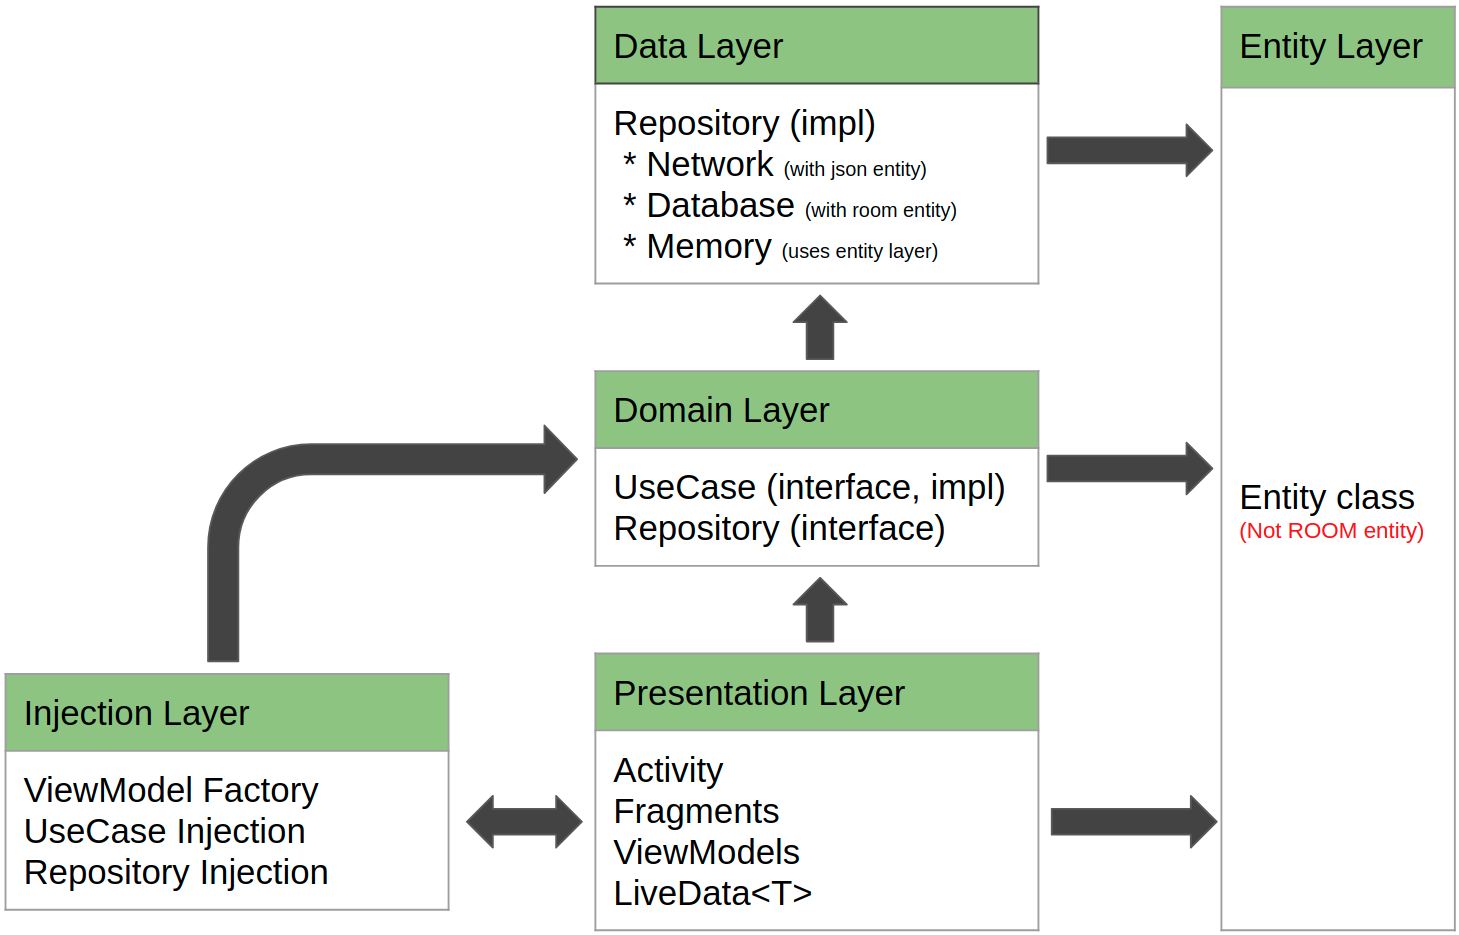
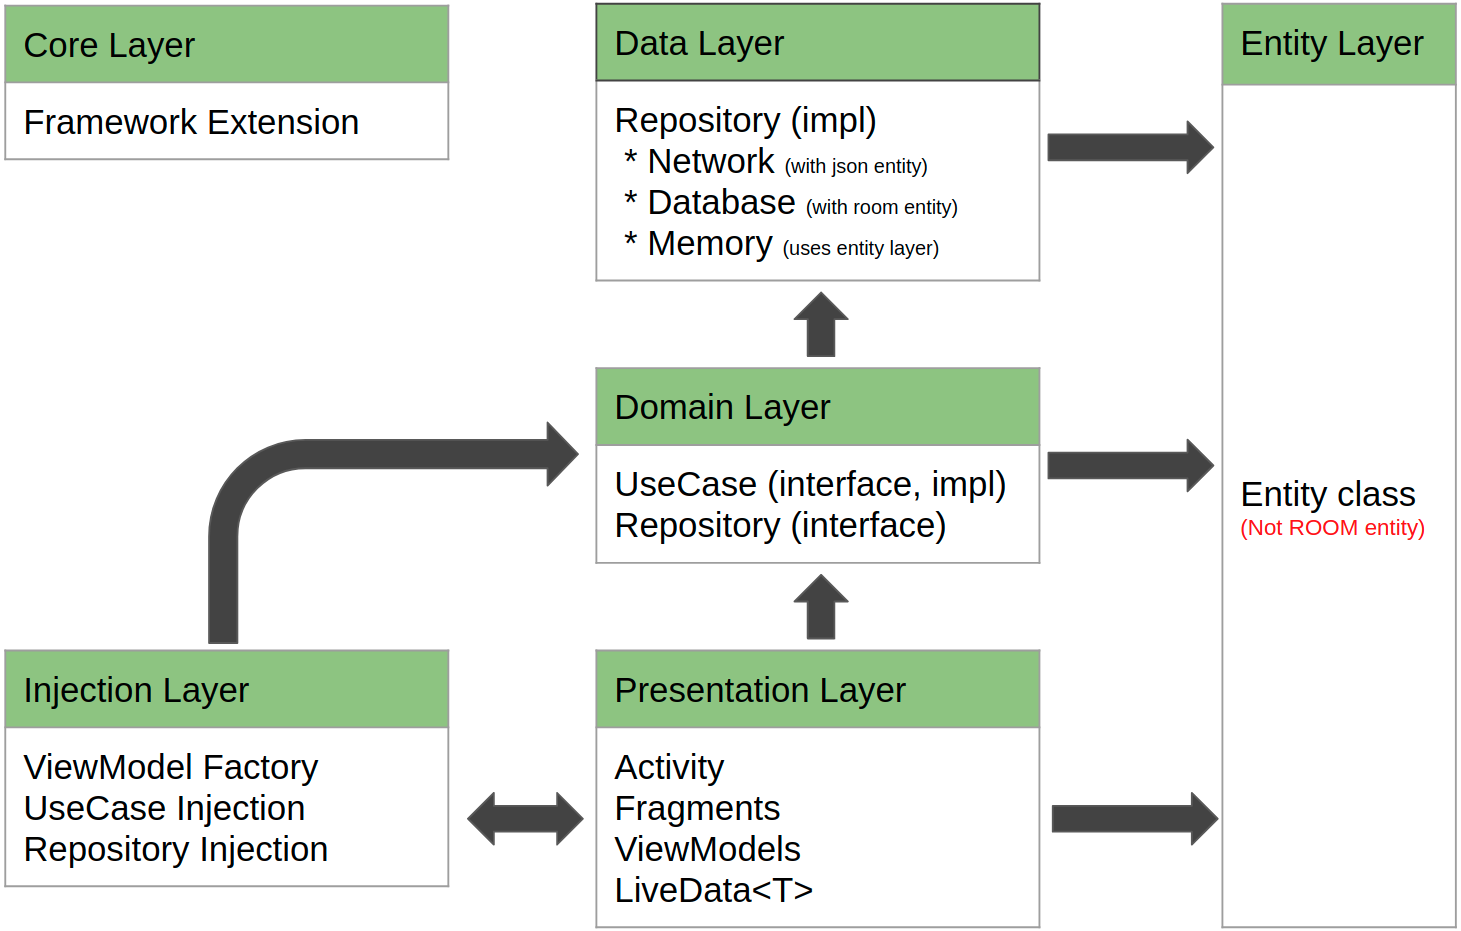
Updated README.md

diff --git a/README.md b/README.md
@@ -10,6 +10,14 @@
 - [Android-CleanArchitecture-Kotlin] (https://github.com/android10/Android-CleanArchitecture-Kotlin)
 - [architecture-samples] (https://github.com/android/architecture-samples)
 
+#### 샘플앱 기능
+- Google 계정을 통한 Firebase 로그인
+- Youtube 영상 URL 입력을 통해 영상 정보를 가져옴 
+- youtube 영상 정보를 Local DB에 저장
+- 영상 카테고리를 생성 및 수정
+- 유튜브 영상을 플레이
+- PIP (Picture-In-Picture)
+
 
 ## 라이브러리
 ###### Firebase
@@ -53,3 +61,131 @@ git clone https://github.com/allsoft777/Android-Youtube-Bookmark
 ## 패키지 레이어
 ![https://github.com/allsoft777/Android-Youtube-Bookmark/](https://github.com/allsoft777/Android-Youtube-Bookmark/blob/master/materials/package_layer.png)
 
+
+### 레이어 설명
+
+#### Presentation Layer
+ViewModel, View 관련 클래스들이 모여있는 패키지입니다.
+Activity, Fragment, View Widget 등이 위치하고, sub package는 기능별로 분류하게 됩니다.
+Data 레이어와 직접적인 의존관계를 없애기 위하여 contract interface, usecase가 포함된 Domain 레이어에 의존하고 있습니다.
+또한, ViewModel 을 생성하는 factory 클래스가 위치한 Injection package 또한 의존하고 있고, Entity class가 포함된 패키지에 의존하고 있습니다.
+
+##### ViewModel 에서의 async 작업
+Async 작업중 ViewModel을 사용하는 context가 종료하면 더이상 async 작업을 수행할 필요가 없습니다. 리소스가 낭비되기 때문인데요.
+viewModel에서는 이러한 기능을 아주 적은양의 코드로 실행 할 수 있도록 제공해주고 있습니다.
+```
+private var _entity: MutableLiveData<BookMarkEntireVO> = MutableLiveData()
+var entity: LiveData<BookMarkEntireVO> = _entity
+
+private val _dataLoading: MutableLiveData<Boolean> = MutableLiveData()
+val dataLoading: LiveData<Boolean> = _dataLoading
+
+fun loadData(intent: Intent) {
+    _dataLoading.value = true
+    viewModelScope.launch {
+        val dbId = intent.getIntExtra(PresentationConstants.KEY_DB_ID, -1)
+        val data = bookmarkRepository.fetchBookMarkEntireType(dbId)
+        _entity.value = data
+        _dataLoading.value = false
+    }
+}
+```
+loadData를 보면 viewModelScope.launch 를 통하여 내부적으로 heavy logic을 수행합니다.
+이 scope 자체는 main thread에서 동작하기 때문에, repository 내부적으로 async하게 동작하게끔 기능을 구현해야 합니다.
+_dataLoading은 progressbar view를 보여주기 위하여 사용하는 live data이고, _entity는 repository로부터 전달받은 결과를 저장하는 live data입니다.
+
+ 
+#### Domain Layer
+presentation 레이어에 repository interface 또는 UseCase를 제공하여 CRUD를 할 수 있도록 합니다.
+둘 중에 한개로 통일해서 사용해도 되지만, 두가지 사용 방법을 보여주기 위하여 둘다 구현한 샘플입니다.
+Coroutine을 사용하여 async 작업을 하였고, RxJava로 대체하여 사용해도 됩니다.
+
+##### Entity 클래스의 변환 작업
+Room Db의 경우 entity annotation을 사용한 entity 클래스가 있지만 이를 presentation 레이어에서 바로 사용하지 않고 caller에서 필요한 최소 정보로만 변환하여 넘겨줍니다.
+프로젝트가 커질수록 화면이 늘어나고, caller의 성격에 따라서 db entity 전체를 요구할수도 있지만 일부 몇몇 field만 요구하는 경우도 있습니다.
+만약 room db의 entity 클래스를 그대로 presentation 레이어에서 사용한다면 모든 필드에 접근이 가능하기 때문에 필요한 최소한의 필드만 볼 수 있도록 제한시켜야 하는 경우가 발생할 수 있습니다.
+이 때에는 domain 레이어에서 적절히 mapping하여 반환하도록 구현하도록 합니다. 
+
+```
+override suspend fun fetchBookMarksSimpleType(categoryId: Int): List<BookMarkSimpleVO> =
+    withContext(ioDispatcher) {
+        dao.fetchBookmarks(categoryId).map { it.toSimpleVO() }
+    }
+
+override suspend fun fetchBookMarkEntireType(categoryId: Int): BookMarkEntireVO =
+    withContext(ioDispatcher) {
+        dao.fetchBookmark(categoryId).toEntireVO()
+    }
+```
+
+```
+@Parcelize
+@Entity(tableName = "bookmark")
+data class BookMarkEntity(
+   // .....
+)
+   fun toEntireVO(): BookMarkEntireVO {
+       return BookMarkEntireVO(
+           categoryId,
+           videoId,
+           thumbnailUrl,
+           title,
+           description,
+           tags,
+           channelId,
+           publishedAt,
+           bookmarked_at,
+           id
+       )
+   }
+
+   fun toSimpleVO(): BookMarkSimpleVO {
+       return BookMarkSimpleVO(
+           categoryId,
+           thumbnailUrl,
+           title,
+           id
+       )
+   }
+}
+
+```
+
+#### Data Layer
+Network, Database, Memory cache 등 CRUD 작업을 하는 레이어 입니다.
+
+
+#### Entity Layer
+entity class를 모아놓은 레이어입니다.
+ROOM 에서 사용하는 entity 클래스는 포함하지 않습니다.
+
+
+#### Injection Layer
+가독성을 위하여(?) dagger와 같은 injection library를 사용하지 않았습니다.
+단순히 클래스를 생성하여 반환하는 역할만을 하고 있습니다.
+대상은 usecase, repository, viewmodel 클래스들입니다. 
+
+
+#### Core Layer
+안드로이드 프레임워크의 주요 컴포넌트들을 대상으로 기능을 확장하는 역할을 담당합니다.
+Activity, Framework, View 등이 있습니다.
+또한 Application 을 상속받아서 구현하는 클래스도 위치하고 있습니다.
+이 클래스는 레이어상으로 가장 최 하위에 위치한 기반 클래스이기 때문에 다른 레이어와 의존관계에 있어서는 안됩니다.
+
+
+## License
+```
+Copyright 2020 owllife.dev
+
+Licensed under the Apache License, Version 2.0 (the "License");
+you may not use this file except in compliance with the License.
+You may obtain a copy of the License at
+
+   http://www.apache.org/licenses/LICENSE-2.0
+
+Unless required by applicable law or agreed to in writing, software
+distributed under the License is distributed on an "AS IS" BASIS,
+WITHOUT WARRANTIES OR CONDITIONS OF ANY KIND, either express or implied.
+See the License for the specific language governing permissions and
+limitations under the License.
+```
